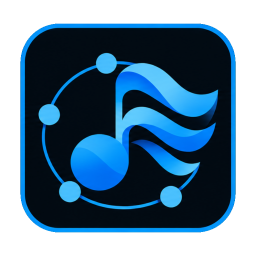
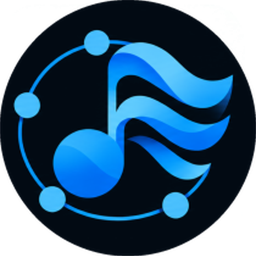
Ícone sem o quadrado, num disco escuro
O contorno azul do quadrado arredondado não dizia nada: o ícone agora é
só a nota com os aparelhos em volta, num disco escuro do tamanho do
desenho, com o resto transparente. Num fundo claro, o disco mantém o
desenho como ele é; sem ele, as partes escuras da nota sumiam. O README
mostra o ícone maior, 160 px em vez de 128, já que o desenho ocupa
agora toda a imagem.

diff --git a/README.md b/README.md
@@ -1,4 +1,4 @@
-<p align="center"><img src="icon.png" alt="" width="128"></p>
+<p align="center"><img src="icon.png" alt="" width="160"></p>
 
 <h1 align="center">Segue</h1>
 
